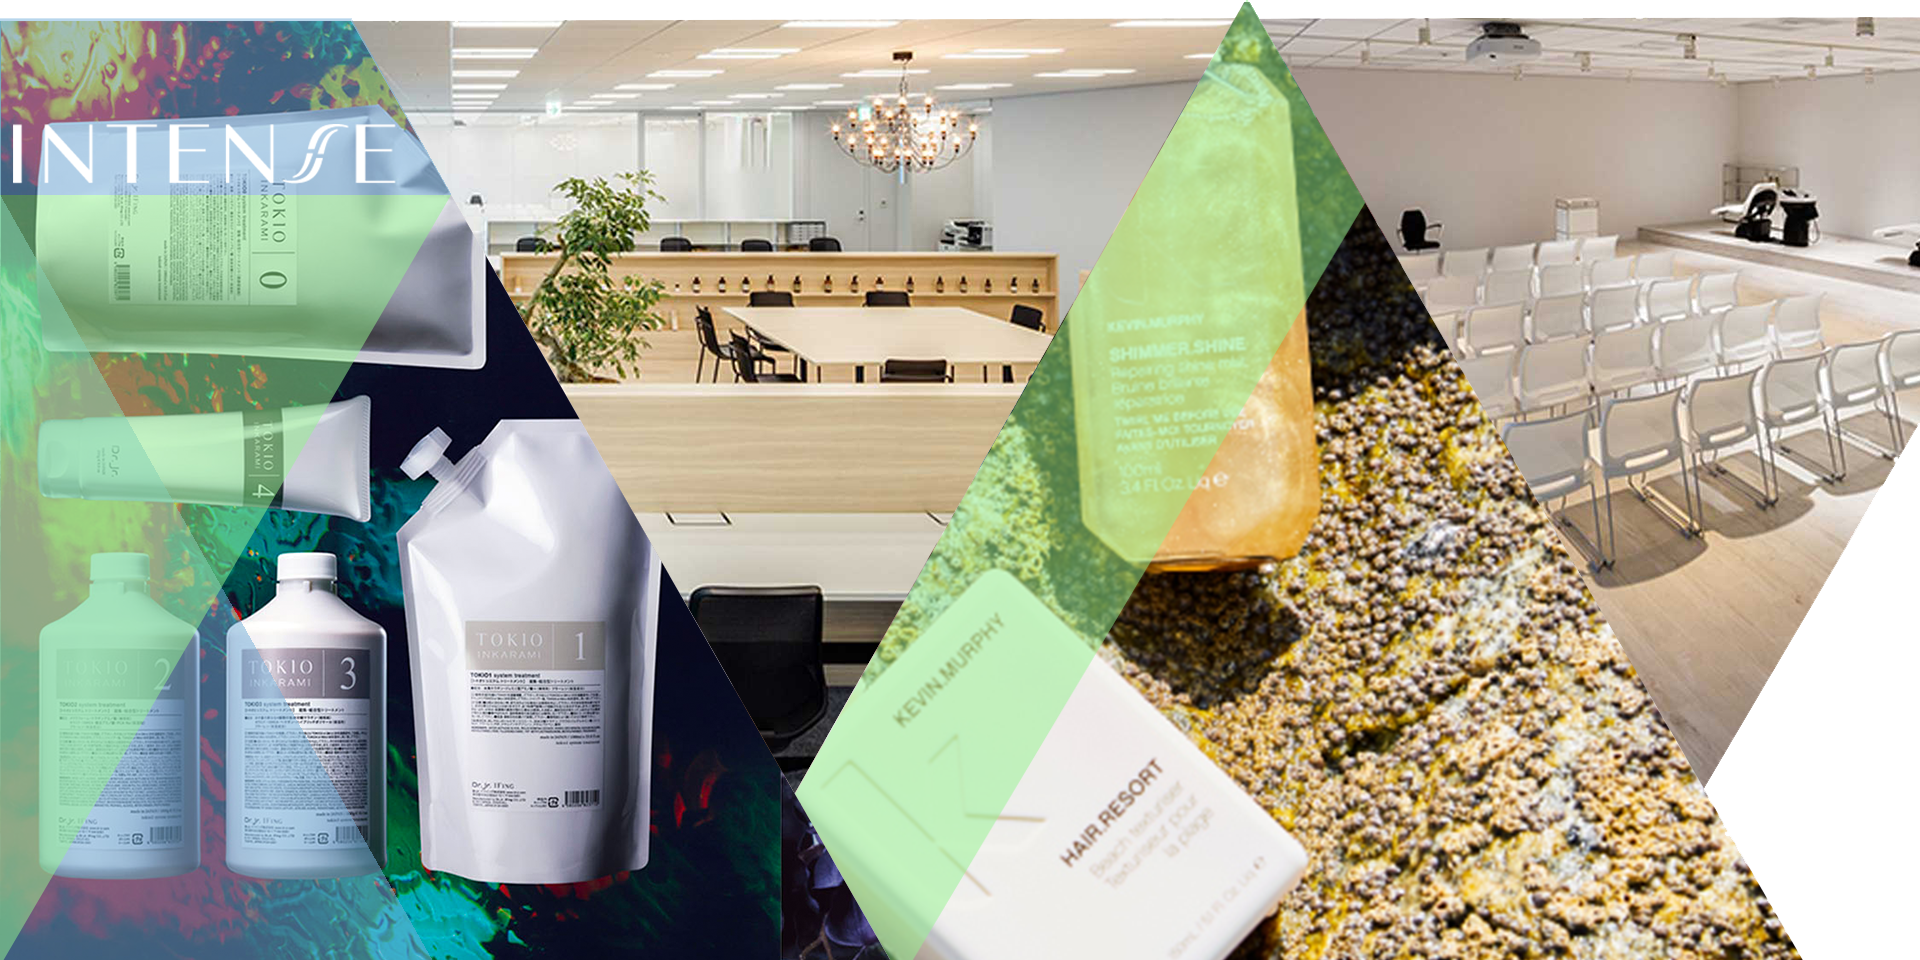
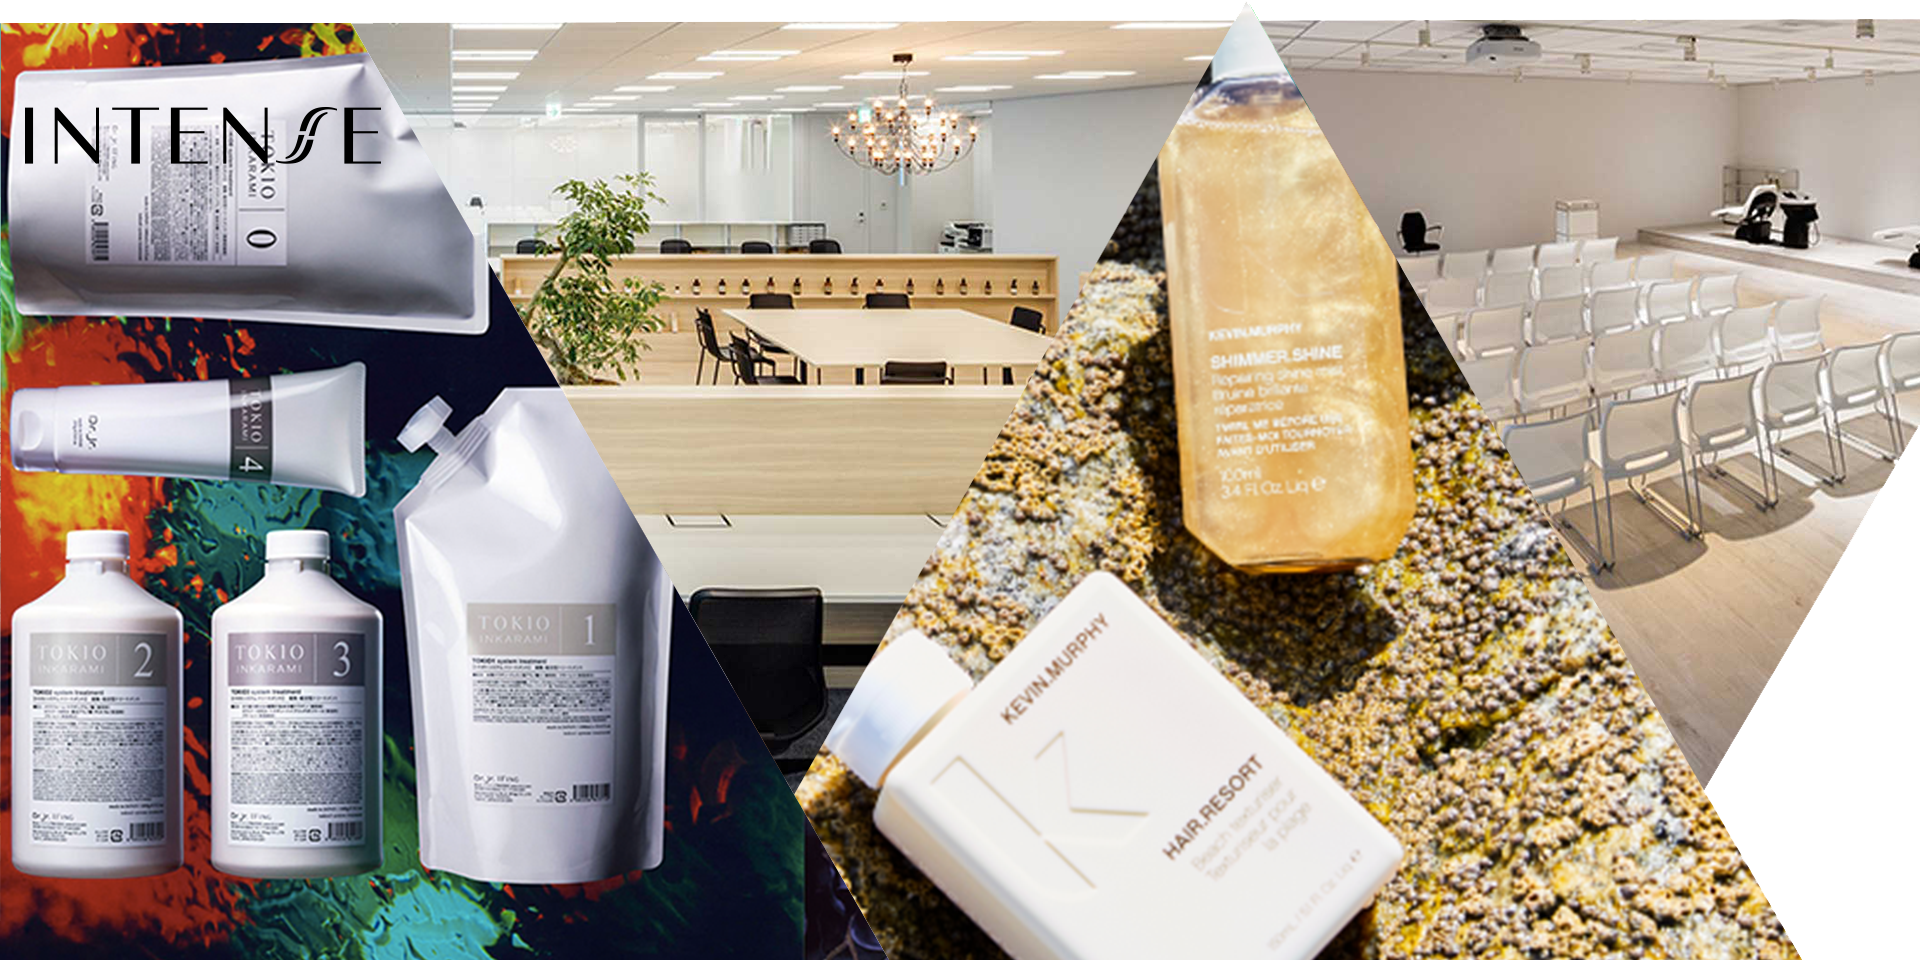
3.4-3

diff --git a/index.html b/index.html
@@ -126,7 +126,7 @@
                 <h4>全国4,000店舗以上の美容室に、<br>美容商品を販売・提供しています。<br>東京・大阪・京都・名古屋・福岡、<br>全国のトレンド発信地に営業所を構え、<br>最旬の情報を発信しています。</h4>
                 <!-- <h6>インテリジェンス　＋　センス</h6>
                 <h6>Intelligence + Sense</h6> -->
-                <h5><img src="img/img-001.png" alt="インテンス＝インテリジェンス＋センス" class="img-fluid"></h5>
+                <h5><img src="img/img-001-2.png" alt="インテンス＝インテリジェンス＋センス" class="img-fluid"></h5>
 
 
 
@@ -514,7 +514,7 @@
                               <!-- <a data-toggle="modal" data-target=".staff-no1"> -->
                               <div class="post-slide10">
                                   <a data-toggle="modal" data-target=".staff-no1">
-                                  <img src="img/employee01.png" alt="東京営業部　大川 遥也">
+                                  <img src="img/employee/employee01-ohkawa.png" alt="東京営業部　大川 遥也">
                                   </a>
                                   <div class="post-date">
                                       <span class="month">社員</span>
@@ -809,7 +809,7 @@
             <div class="modal-dialog modal-lg">
               <div class="modal-content">
                   <div class="modal-header">
-                    <h5 class="modal-title">岩切未夏 東京営業所</h5>
+                    <h5 class="modal-title">岩切未夏 商社メーカー部門</h5>
                     <button type="button" class="close" data-dismiss="modal" aria-label="Close">
                       <span aria-hidden="true">&times;</span>
                     </button>
@@ -915,7 +915,7 @@
             <div class="modal-dialog modal-lg">
               <div class="modal-content">
                   <div class="modal-header">
-                    <h5 class="modal-title">牧大地 東京営業所</h5>
+                    <h5 class="modal-title">牧大地 福岡営業所</h5>
                     <button type="button" class="close" data-dismiss="modal" aria-label="Close">
                       <span aria-hidden="true">&times;</span>
                     </button>
@@ -1692,7 +1692,7 @@
               </tr>
               <tr>
                 <td class="title">代表者</td>
-                <td><p>代表取締役会長：<br class="br_on">冬廣 應尚（ふゆひろ まさなお）<br>代表取締役社長：<br class="br_on">冬廣 憲二（ふゆひろ けんじ）</p></td>
+                <td><p>代表取締役会長：<br class="br_on">冬廣 憲二（ふゆひろ けんじ）<br>代表取締役社長：<br class="br_on">冬廣 應尚（ふゆひろ まさなお）</p></td>
               </tr>
               <tr>
                 <td class="title">事業内容</td>

diff --git a/css/master.css b/css/master.css
@@ -1,5 +1,10 @@
 html, body {
   overflow-x: hidden;
+  /*overflow-y: hidden;*/
+}
+
+html {
+  height:100%;
 }
 
 
@@ -38,7 +43,7 @@ body {
 
 #videoBG {
   padding-top: 51.04%;
-  background:url('../img/top-img.png');
+  background:url('../img/top-img.png') no-repeat;
   background-size: cover;
   background-position: center;
   position:relative;
@@ -118,7 +123,7 @@ body {
   /*background: rgb(40,40,40);
   background: linear-gradient(180deg, rgba(124,128,132,1) 0%, rgba(40,40,40,1) 100%);*/
   background: rgb(40,40,40);
-background: linear-gradient(180deg, rgba(40,40,40,1) 0%, rgba(124,128,132,1) 100%);
+background: linear-gradient(180deg, rgba(25,25,25,1) 0%, rgba(70,70,70,1) 100%);
 /*background: linear-gradient(32deg, rgba(73,182,226,1) 0%, rgba(113,140,162,1) 100%);*/
 /*background: rgb(73,153,226);
 background: linear-gradient(32deg, rgba(73,153,226,1) 0%, rgba(200,223,241,1) 100%);*/
@@ -152,7 +157,7 @@ background: linear-gradient(32deg, rgba(73,153,226,1) 0%, rgba(200,223,241,1) 10
 
 .sixth-div {
   /*background: url('../img/bg006.png') no-repeat center center;*/
-  background: linear-gradient(180deg, rgba(226,226,226,1) 0%, rgba(255,255,255,1) 100%);
+  background: linear-gradient(180deg, rgba(255,255,255,1) 0%, rgba(255,255,255,1) 100%);
   /*padding-bottom:20vh;*/
 }
 
@@ -162,8 +167,8 @@ background: linear-gradient(32deg, rgba(73,153,226,1) 0%, rgba(200,223,241,1) 10
 }
 
 .eighth-div {
-  background: rgb(98,98,98);
-  background: linear-gradient(50deg, rgba(98,98,98,0.5284488795518207) 0%, rgba(255,255,255,0.4948354341736695) 100%);
+   background: rgb(40,40,40);
+background: linear-gradient(180deg, rgba(25,25,25,1) 0%, rgba(90,90,90,1) 100%);
 }
 
 footer {
@@ -314,6 +319,10 @@ footer .center-me p a {
 .midd-div .main-content h2.title {
   color: rgb(255,255,255);
   margin-top:8vh;
+}
+
+.eighth-div .section007 h2.title {
+  color:rgb(255,255,255);
 }
 
 
@@ -655,8 +664,8 @@ footer .center-me p a {
 }
 
 .link-to .mid-career {
-  background: rgb(255,82,1);
-  background: linear-gradient(238deg, rgba(89,88,88,1) 0%, rgba(66,66,66,1) 100%);
+  background: rgb(47,11,104);
+  background: linear-gradient(238deg, rgba(74,18,163,1) 0%, rgba(47,11,104,1) 100%);
 }
 
 .link-to .graduate {
@@ -1146,7 +1155,7 @@ a .post-slide:hover {
 
 @media (max-width: 575.98px) {
   .first-div h4 {
-    font-size:1.25em;
+    font-size:1em;
     padding:20px;
     line-height: 2em;
 }

diff --git a/benefits.html b/benefits.html
@@ -74,7 +74,7 @@
 
             <div class="row justify-center">
               <div class="benefits">
-                福利厚生
+                <h2>福利厚生</h2>
                 <div class="row">
                   <div class="benefit col-lg-6 col-md-6 mb-20 mb-md-30" data-aos="fade-right">
                     <div class="b-sect">
@@ -137,12 +137,7 @@
                     </div>
                   </div>
                 </div>
-              </div>
-            </div>
-
-            <div class="row justify-center">
-              <div class="benefits">
-                休暇制度
+                <h2>福利厚生</h2>
                 <div class="row">
                   <div class="benefit col-lg-6 col-md-6 mb-20 mb-md-30" data-aos="fade-right">
                     <div class="b-sect">
@@ -168,16 +163,14 @@
                       <p>1,000円</p>
                     </div>
                   </div>
-                  <div class="benefit col-lg-6 col-md-6 mb-20 mb-md-30" data-aos="fade-right">
-                    <div class="b-sect">
-                      <h3>休日講習手当</h3>
-                      <p>時給換算×1.5時間×1.35</p>
-                    </div>
-                  </div>
+
                 </div>
               </div>
             </div>
+
           </div>
+
+
 
         </div>
 
